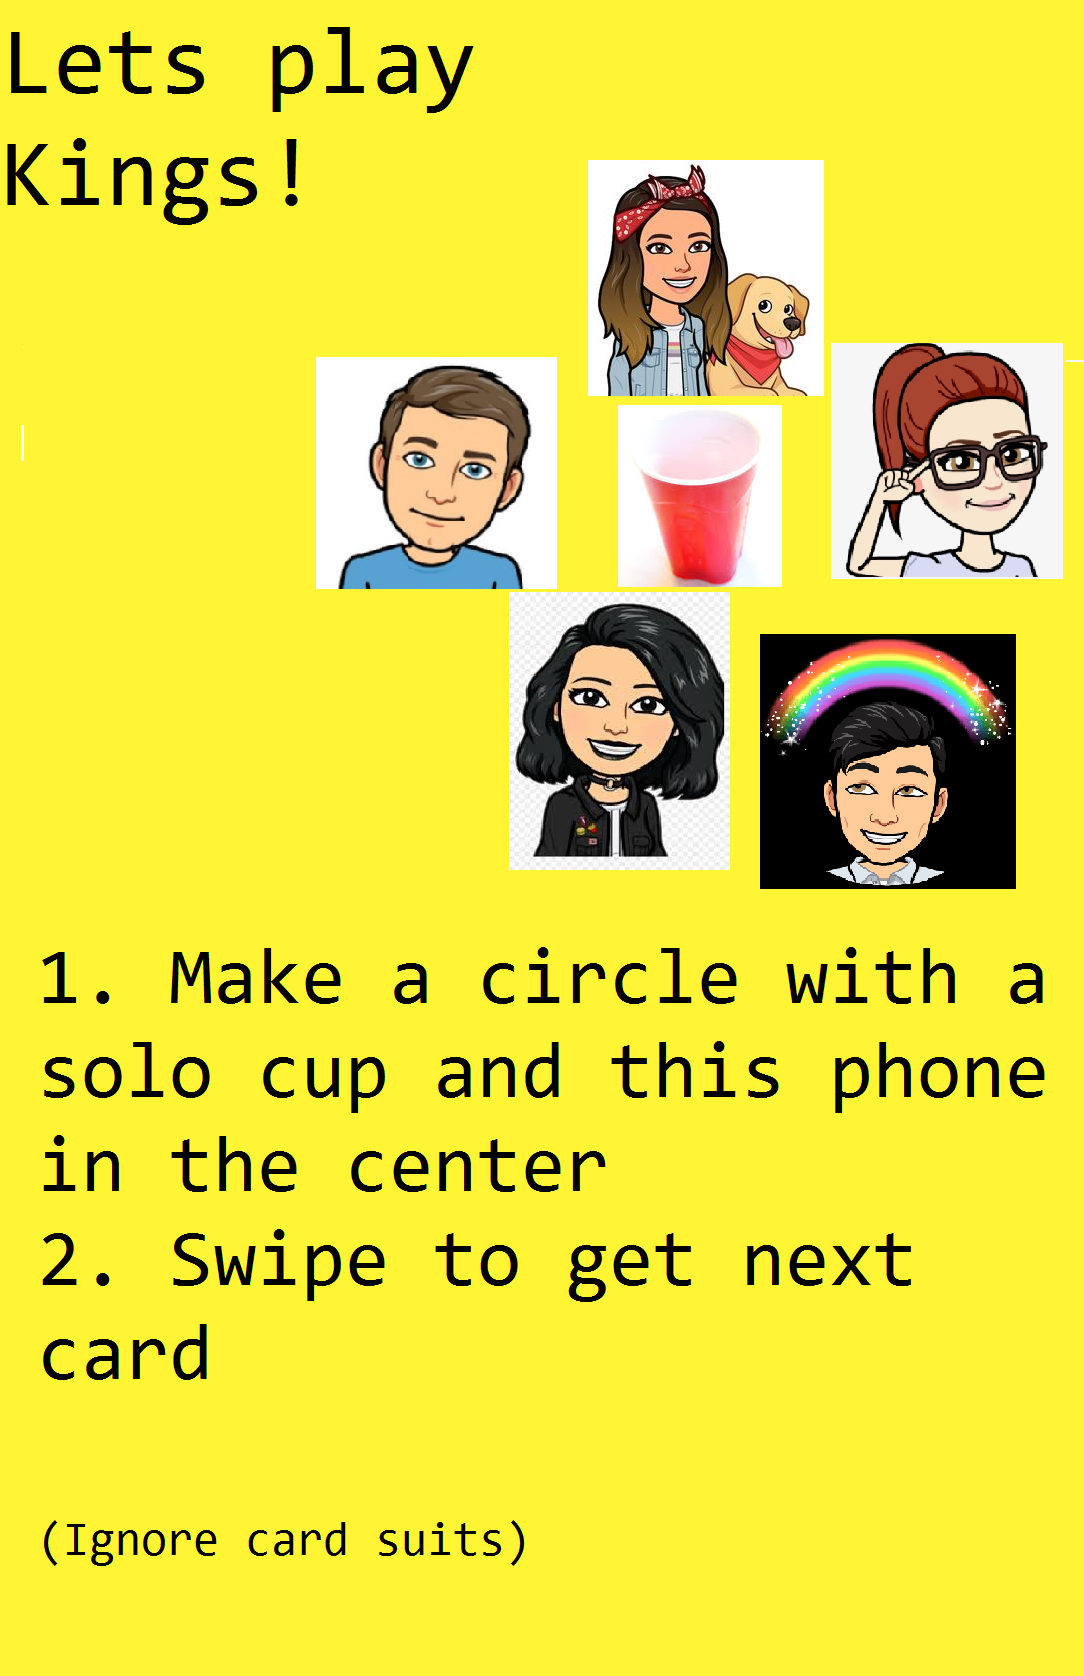
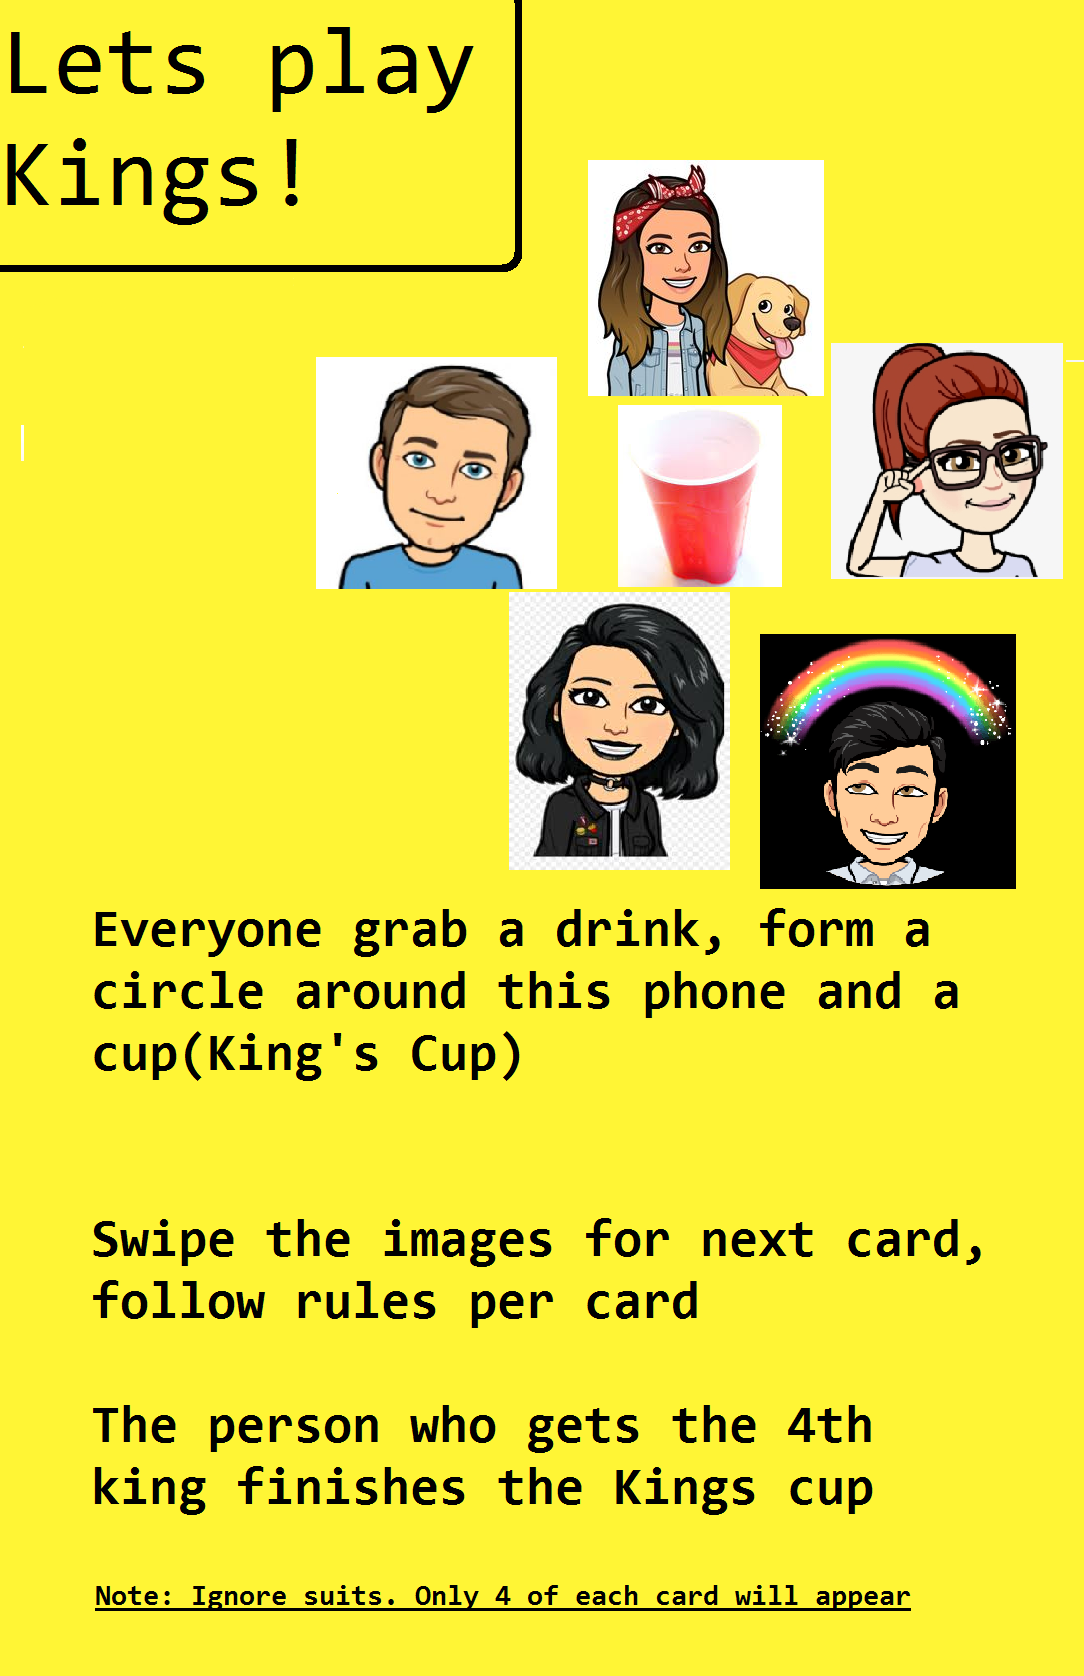
Making it look nice
Changed fonts, added coverimg, made coverimg swipable, resized rules box. made button not move from bottom for consistentcy

Changed region(s): [[0.0304, 0.5274, 0.9742, 0.9618], [0.0, 0.0, 0.4871, 0.1862], [0.7306, 0.8377, 0.822, 0.8998]]

diff --git a/index.html b/index.html
@@ -7,6 +7,7 @@
   animation-duration: 3s;
   animation-iteration-count: 1;
   max-width: 500px;
+  font-family: 'Bangers', 'san-serif';
 }
 
 @keyframes fadein{
@@ -65,8 +66,9 @@ img {
   grid-row-start: 3;
   grid-row-end: 4;
   color: black;
-  font-size: .8rem;
-  border-top: 5px solid black;
+  height: 150.5px;
+
+  font-size: 3.3vh;
 
 }
 #nextcard {
@@ -128,11 +130,12 @@ footer{
 <title> "KINGS CUP" THE DRINKING GAME </title>
   <meta charset="UTF-8">
   <meta name="viewport" content="width=device-width, initial-scale=1.0">
+  <link href='https://fonts.googleapis.com/css?family=Bangers' rel='stylesheet'>
[1 lines of base64/hex data omitted]
 </head>
 
 <div id="kingsleft">Kings Left: 4</div>
-<img id="coverimg" src="https://i.imgur.com/Ge7TRGT.png" alt="coverimg"></img>
+<img id="coverimg" src="https://i.imgur.com/BaMUszs.png" alt="coverimg"></img>
 <div id="wrapper">
   <!-- THIS WRAPPER HOLDS 1. NEW CARD BUTTON 2. BOX FOR CARD # 3. THE RULE -->
   <main id="rule">
@@ -186,19 +189,19 @@ var dict = {
 }
 
 var numberrules = {
-1: "Ace: Waterfall - Every player begins drinking, and no one can stop until the player before them does",
+1: "Ace: Waterfall - Every player begins drinking, and no one can stop until the player who drew the Ace stops",
 2: "2 - You - Whoever drew the card assigns a drink",
 3: "3 - Me - Whoever drew the card drinks",
 4: "4 - Floor - Everyone races to touch the floor, last person to do so drinks",
 5: "5 - Guys - All guys drink",
 6: "6 - Chicks - All girls drink",
 7: "7 - Heaven - All players point towards the sky, last player to do so drinks",
-8: "8 - Mate - Pick a person to drink with, everytime you drink they drink",
-9: "9 - Rhyme - Say a phrase, and everyone else must say phrases that rhyme",
-10: "10 - Categories - Pick a category, and say something from that category (i.e. if drinking games was the category, kings would be a viable answer)",
-11: "Jack - Never have I ever - Each player puts up 3 fingers, then starting with the person who drew the card, each player says never have I ever «something». If you've done it, you put a finger down, until someone loses",
-12: "Queen - Questions - The person who drew the card asks a random person a question, and they then turn and ask a random person a question, until someone loses by either failing to ask a question or by responding to the person who just asked them a question",
-13: "King - Ruler - Make a rule that everyone must follow until the next King is drawn (add some booze to the kings cup) Upon reaching 4 Kings, finish the kings cup!  "
+8: "8 - Mate - Pick a person to drink with, each time one of you drinks you both drink instead",
+9: "9 - Rhyme - Card drawer starts with a word, players go in a circle and rhyme with the previous persons word. The person who cannot drinks",
+10: "10 - Categories - Person who drew the card picks a category and gives an example, going clockwise the player who fails to provide an example of the category drinks",
+11: "Jack - Never have I ever - Each player puts up 3 fingers, player who drew the card begins with [never have I ever «something»]. Put down a finger if you have. Players to lose all 3 fingers first drink",
+12: "Queen - Questions - The person who drew the card asks a person a question, and they then turn and ask another person a question, the player who fails to ask another question drinks",
+13: "King - Ruler - Make a rule that everyone must follow until the next King is drawn (add some alcohol to the Kings Cup) Person who draws the last king loses the game and finishes the Kings cup "
 }
 
 function hidebutton(){//also reset animations//
@@ -324,14 +327,28 @@ function recallEventListener(y){
   },false)
   }
 
-//  imgswipe.addEventListener('touchend', function(e){//
+//THIS HIDES THE COVER IMAGE ON SWIPE.//
+var eventListenerRemoveCoverImg = document.getElementById('coverimg')
+eventListenerRemoveCoverImg.addEventListener('touchstart',function(e){
+  let touchpoint = e.changedTouches[0];
+  startingx = parseInt(touchpoint.clientX);
+  }, false)
+
+eventListenerRemoveCoverImg.addEventListener('touchend',function(e){
+  let touchpoint = e.changedTouches[0];
+  let dist = parseInt(touchpoint.clientX);
+  let actualdist = (dist-startingx);
+  if (Math.abs(actualdist)>150){
+    hideCoverimg();}
+},false)
+//END hiding cover image on swipe//
 
 
 window.addEventListener('load', function(){
 for (let i = 1; i <= 14; i++) {
   recallEventListener(i);
-  setInterval(hideCoverimg,5000);
 }
+setInterval(hideCoverimg,10000);
   //imgswipe = findimage(14);//
   }, false)
 function refreshpage(){
